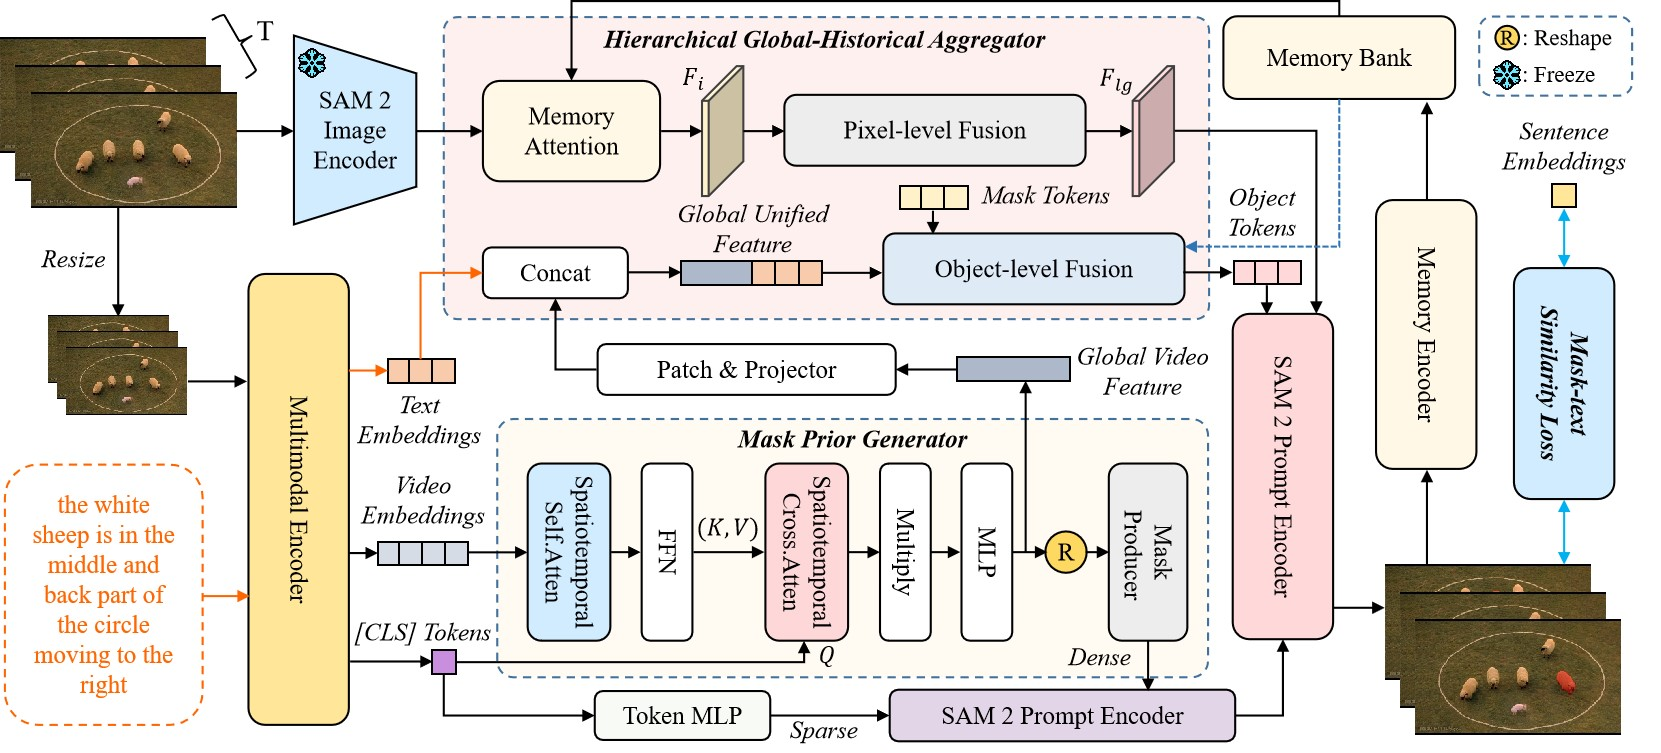
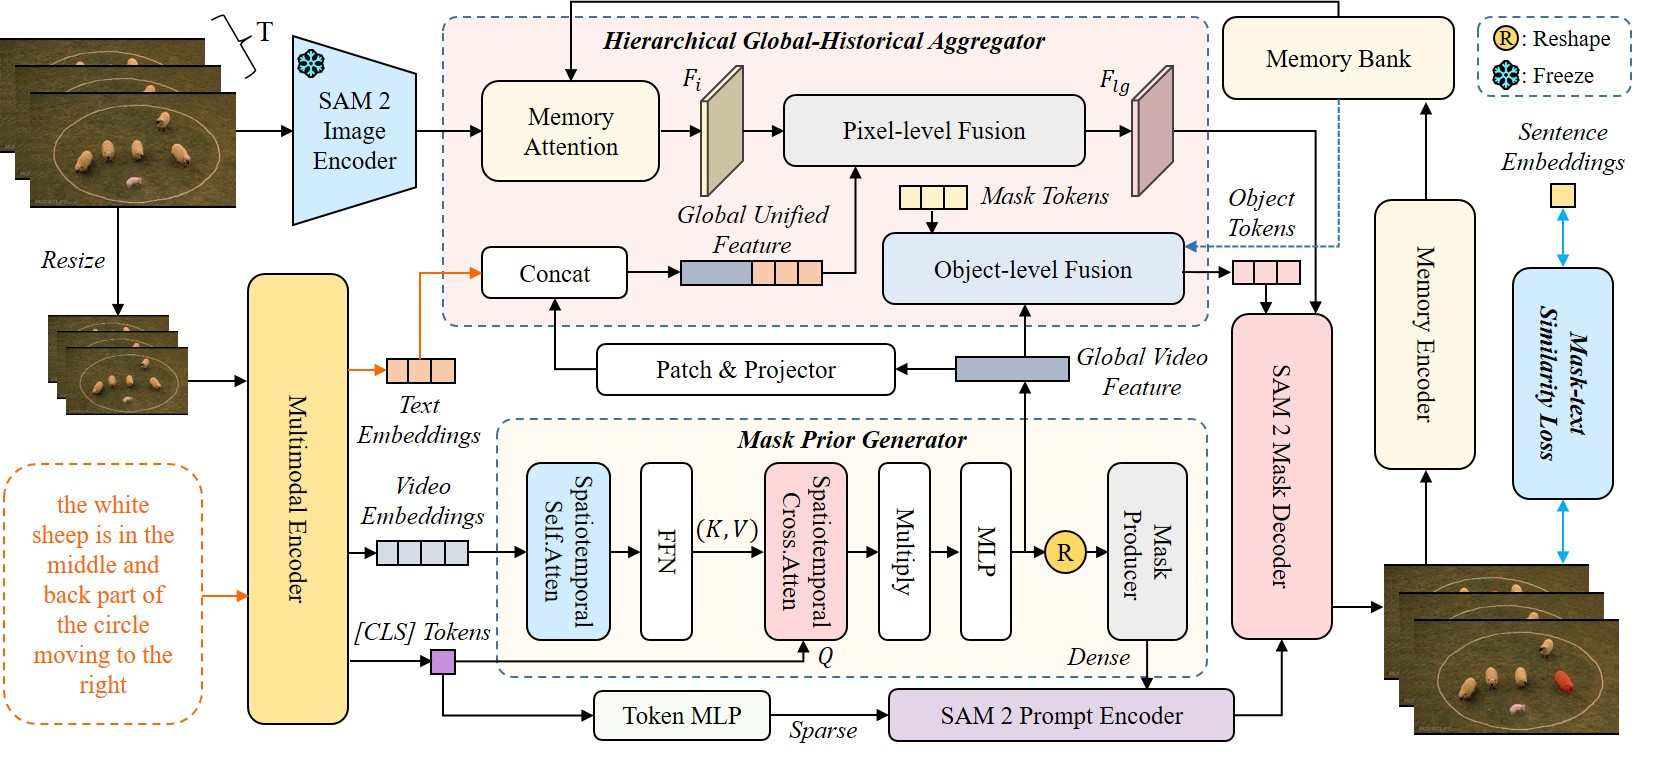
Initial commit

diff --git a/README.md b/README.md
@@ -6,12 +6,15 @@
   </a>
 </div>
 
-
 ![](picture/visualization.jpg)
 
 ## News
 
 [June 26th, 2025] 🔥MPG-SAM 2 has been accepted by ICCV 2025! We have open-sourced the code and model.
+
+## Notice
+
+[August 9th, 2025] The **Figure 2** in both the ICCV camera-ready version and earlier arXiv versions contains errors. Please refer to the **latest version on arXiv** for the correct diagram.
 
 ## Contents
 
